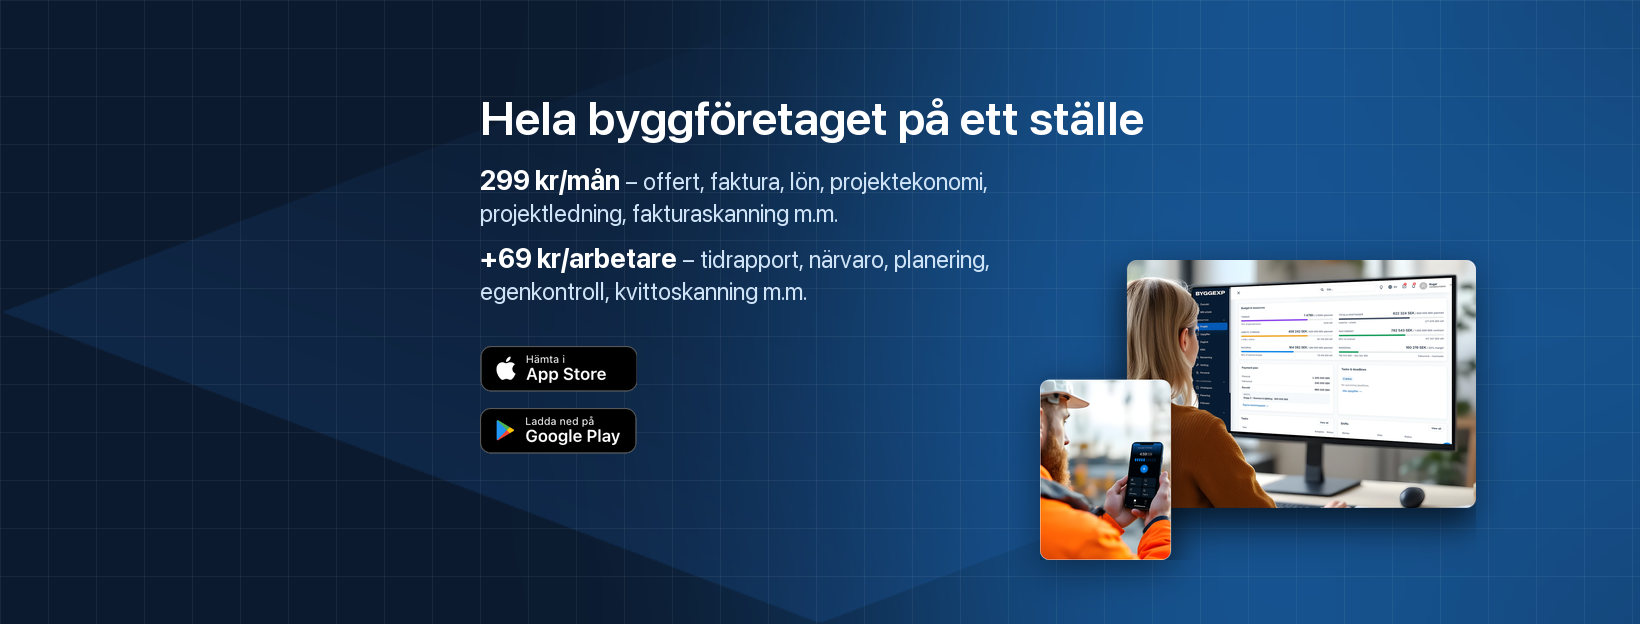
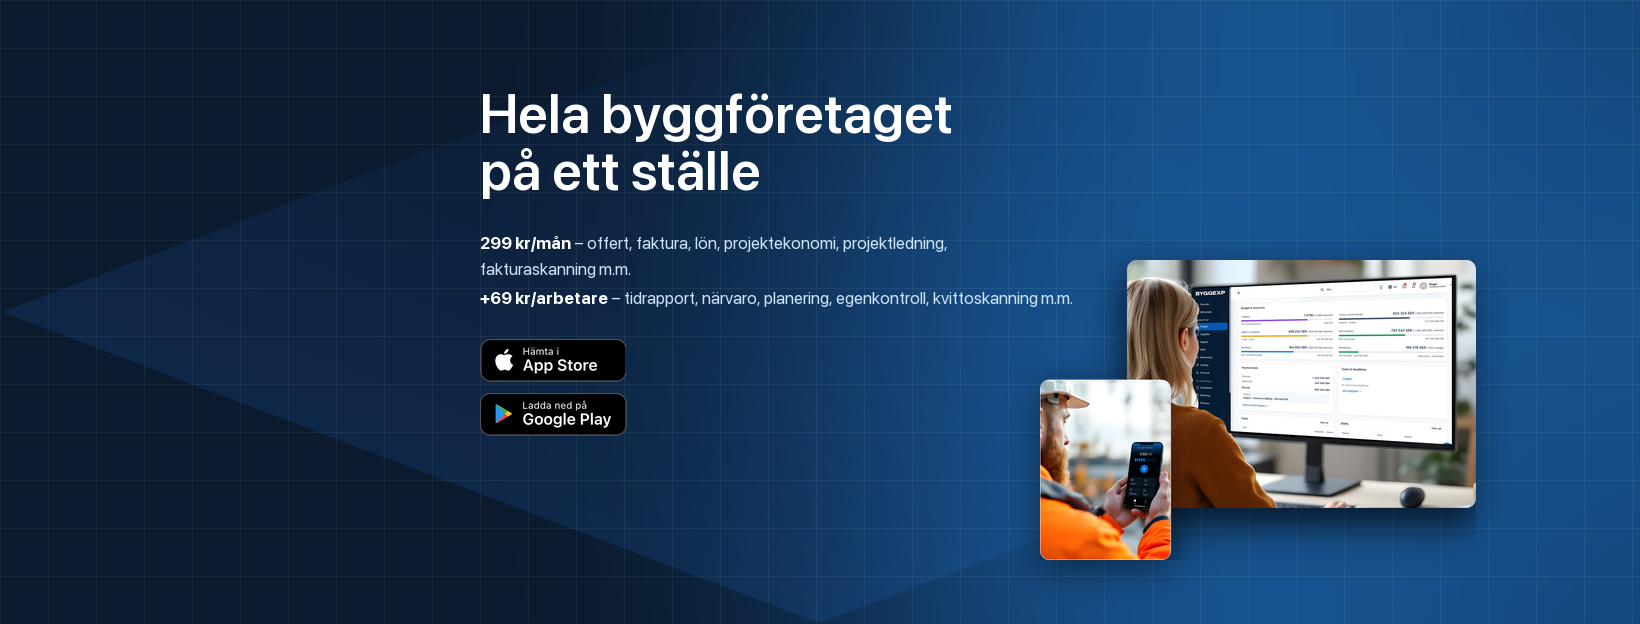
SMM S20: FB cover in site hero proportions

Changed region(s): [[0.2799, 0.1522, 0.7152, 0.3045], [0.2799, 0.3349, 0.653, 0.4872], [0.2799, 0.5176, 0.4043, 0.7308]]

diff --git a/design-assets/social/covers/make_fb_mobile.py b/design-assets/social/covers/make_fb_mobile.py
@@ -31,16 +31,14 @@ def paste_shadow(img, im, x, y, blur=18):
     img.alpha_composite(im, (x, y))
 
 
-def render(name, price_col, align):
+def render(name, price_col, align, k=.9):
+    """S20: proportions of the site hero (HeroV2.scss) scaled by k: h1 60/1.05 in 2 lines,
+    32 gap, price 19/1.5 with 4 between lines, 32 gap, store badges 48."""
     img = mc.background(W, H, 48).convert("RGBA")
     d = ImageDraw.Draw(img)
-    big = mc.font(48, "Semibold")  # site h1: weight 600, all white
-    fp, fl = mc.font(27, "Bold"), mc.font(24, "Regular")
-    ph, lh2, gap = 44, 32, 14
-    # headline: one line, white + sky
-    a, b = "Hela byggföretaget ", "på ett ställe"
-    hw = d.textlength(a + b, font=big)
-    # S21: price as on the site hero: bold price – grey "what's included", no pills
+    big = mc.font(round(60 * k), "Semibold")  # site h1: weight 600, all white
+    fp, fl = mc.font(round(19 * k), "Bold"), mc.font(round(19 * k), "Regular")
+    lh1, lh2, gap, blk = 60 * k * 1.05, 19 * k * 1.5, 4 * k, 32 * k
     dash = d.textlength(" – ", font=fl)
     rows = []
     for p, l in PRICE:  # flows like a paragraph: first line after "price – ", the rest from the left edge
@@ -52,28 +50,32 @@ def render(name, price_col, align):
                 ls[-1] = t
             else:
                 ls.append(w)
+        if len(ls) > 1 and " " not in ls[-1]:  # no lone word ("m.m.") on the last line
+            head, _, last = ls[-2].rpartition(" ")
+            ls[-2], ls[-1] = head, last + " " + ls[-1]
         rows.append((p, ls))
     x0 = MX0
     y = MY0
-    d.text((x0, y), a, font=big, fill=mc.WHITE)
-    d.text((x0 + d.textlength(a, font=big), y), b, font=big, fill=mc.WHITE)
-    y += 76
+    for line in ("Hela byggföretaget", "på ett ställe"):
+        d.text((x0, y + lh1 * .8), line, font=big, fill=mc.WHITE, anchor="ls")
+        y += lh1
+    y += blk
     for p, ls in rows:
-        rh = lh2 * len(ls)
-        d.text((x0, y + lh2 * .8), p, font=fp, fill=price_col, anchor="ls")
-        d.text((x0 + d.textlength(p, font=fp), y + lh2 * .8), " – ", font=fl, fill=GREY, anchor="ls")
-        for k, t in enumerate(ls):
-            lx = x0 + d.textlength(p, font=fp) + dash if k == 0 else x0
-            d.text((lx, y + k * lh2 + lh2 * .8), t, font=fl, fill=GREY, anchor="ls")
-        y += rh + gap
+        d.text((x0, y + lh2 * .75), p, font=fp, fill=price_col, anchor="ls")
+        d.text((x0 + d.textlength(p, font=fp), y + lh2 * .75), " – ", font=fl, fill=GREY, anchor="ls")
+        for i, t in enumerate(ls):
+            lx = x0 + d.textlength(p, font=fp) + dash if i == 0 else x0
+            d.text((lx, y + i * lh2 + lh2 * .75), t, font=fl, fill=GREY, anchor="ls")
+        y += lh2 * len(ls) + gap
+    y += blk - gap
     # store badges left of the avatar, stacked
-    bh = 46
+    bh = round(48 * k)
     bs = badges(bh)
     cx, cy, r = AV
-    by = int(y) + 26  # same air above the badges as between headline and prices
+    by = int(y)
     bx = x0  # badges on the same left line as the text
     for i, bd in enumerate(bs):
-        img.alpha_composite(bd, (int(bx), by + i * (bh + 16)))
+        img.alpha_composite(bd, (int(bx), by + i * (bh + round(12 * k))))
     # photo right of the avatar; desktop shows the rest up to 1600
     hero = Image.open(TILES / "hero-nostores.png").convert("RGBA")
     hero.thumbnail((620, 300), Image.LANCZOS)
@@ -102,6 +104,5 @@ def phone_preview(img, name):
 
 
 if __name__ == "__main__":
-    for n, col in [("fb-site", mc.WHITE)]:
-        phone_preview(render(n, col, "left"), n)
+    phone_preview(render("fb-site", mc.WHITE, "left", .9), "fb-site")  # k=1 runs into the avatar
     print("ok")

diff --git a/design-assets/social/DESIGN-SYSTEM-SMM.md b/design-assets/social/DESIGN-SYSTEM-SMM.md
@@ -62,7 +62,7 @@
 
 **S19 · 2026-10-20 · Блок текста на обложке — по центру по высоте.** Расстояние от верха обложки до заголовка = расстоянию от низа значков сторов до низа обложки; значки сторов сдвинуты вниз так, что над ними (до строк цены) и под ними (до края обложки) поровну. Фото справа — крупное: на FB может выходить за мобильную зону до x 1580 (`shot_r`), текст остаётся в зоне 270–1120. Состав цены — короткими словами (fakturaskanning, kvittoskanning). Код: `cover(..., center=True, shot_r=…)` в `covers/make_covers.py`. Почему: владелец: «расстояние под кнопками как над», «картинку справа больше».
 
-**S20 · 2026-10-21 · FB-обложка рассчитана на мобильное приложение.** В приложении FB видна только зона x 380–1265, y ~100–568 из 1640×624; аватар перекрывает центр снизу (круг c=(822,509), r≈188), стрелка «назад» и иконки — по краям на y 190–255. Весь текст, цены и значки сторов — в зоне x 480–1225, над аватаром (до y ~310); значки сторов — слева от аватара, фото — справа (на десктопе видно целиком). Все левые края (заголовок, плашки, значки) на одной линии. Цена без плашек, как в шапке сайта: жирная цена «299 kr/mån» – серым что входит, текст течёт абзацем (2026-10-21, владелец: «не надо пилюль, возьми как на сайте»). Цвета как в тёмной шапке сайта (`HeroV2.scss`): заголовок целиком белый, вес 600; цена белая жирная; что входит — #cfe3f7 (владелец: «цвета возьми как на сайте»). Перед показом — превью «десктоп + телефон» (`*-preview.png`). Код: `covers/make_fb_mobile.py`; `make_covers.cover(..., pill=, pill_text=)` для старых обложек. Почему: владелец увидел на телефоне обрезанный слева заголовок и цены под аватаром.
+**S20 · 2026-10-21 · FB-обложка рассчитана на мобильное приложение.** В приложении FB видна только зона x 380–1265, y ~100–568 из 1640×624; аватар перекрывает центр снизу (круг c=(822,509), r≈188), стрелка «назад» и иконки — по краям на y 190–255. Весь текст, цены и значки сторов — в зоне x 480–1225, над аватаром (до y ~310); значки сторов — слева от аватара, фото — справа (на десктопе видно целиком). Все левые края (заголовок, плашки, значки) на одной линии. Цена без плашек, как в шапке сайта: жирная цена «299 kr/mån» – серым что входит, текст течёт абзацем (2026-10-21, владелец: «не надо пилюль, возьми как на сайте»). Цвета как в тёмной шапке сайта (`HeroV2.scss`): заголовок целиком белый, вес 600; цена белая жирная; что входит — #cfe3f7 (владелец: «цвета возьми как на сайте»). Пропорции тоже с сайта: h1 60/1.05 в 2 строки → 32 → цена 19/1.5, 4 между строками → 32 → значки 48, всё ×k (на FB k=0.9, при k=1 цены заходят под аватар); последняя строка без одинокого слова (владелец: «размеры, пропорции с сайта возьми»). Перед показом — превью «десктоп + телефон» (`*-preview.png`). Код: `covers/make_fb_mobile.py`; `make_covers.cover(..., pill=, pill_text=)` для старых обложек. Почему: владелец увидел на телефоне обрезанный слева заголовок и цены под аватаром.
 
 **S7 · Текст.** Шведский, без кириллицы; только факты из `docs/seo/product-facts-verified.md`; ссылки с UTM.
 
